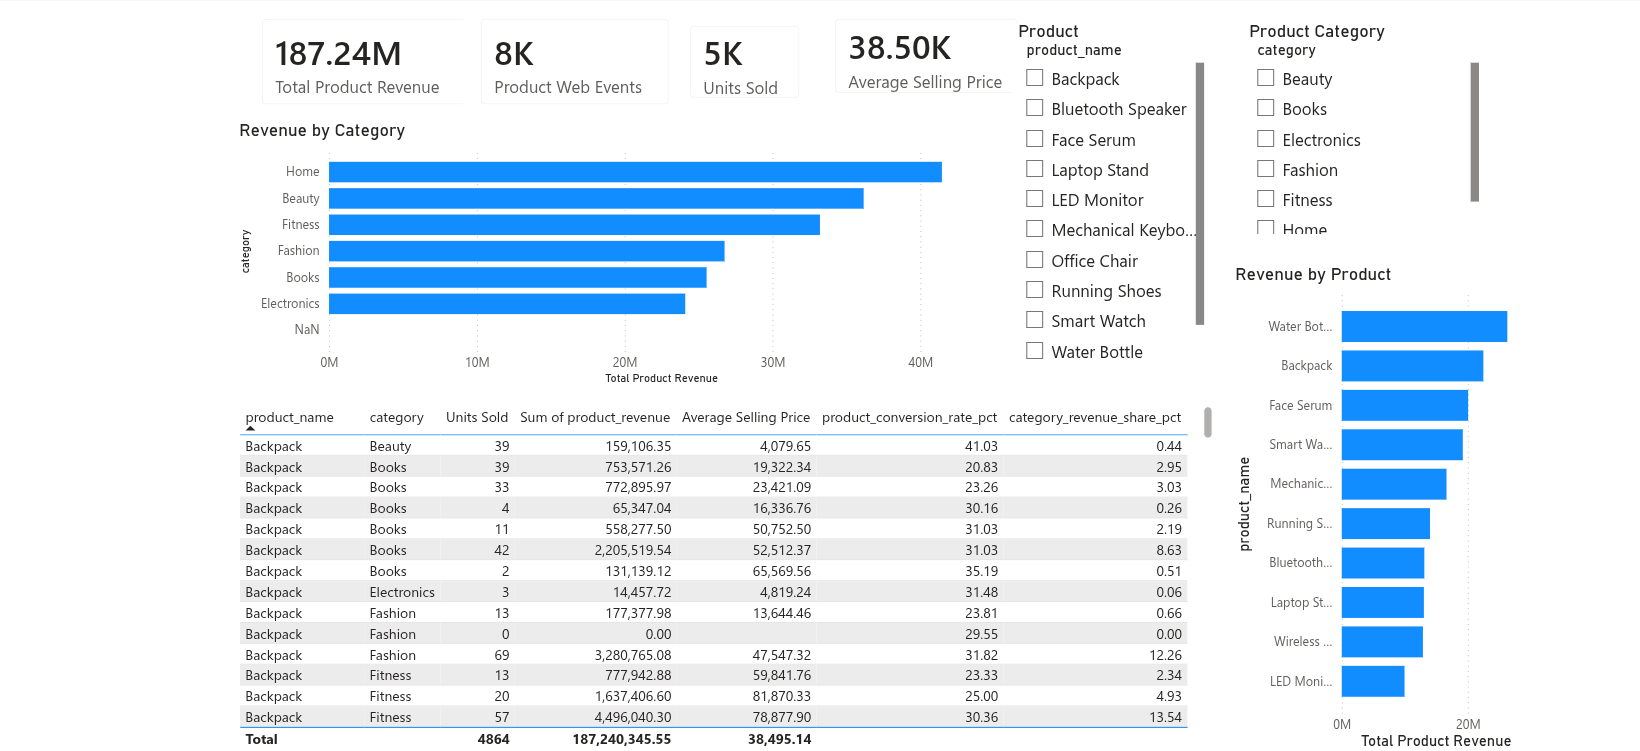
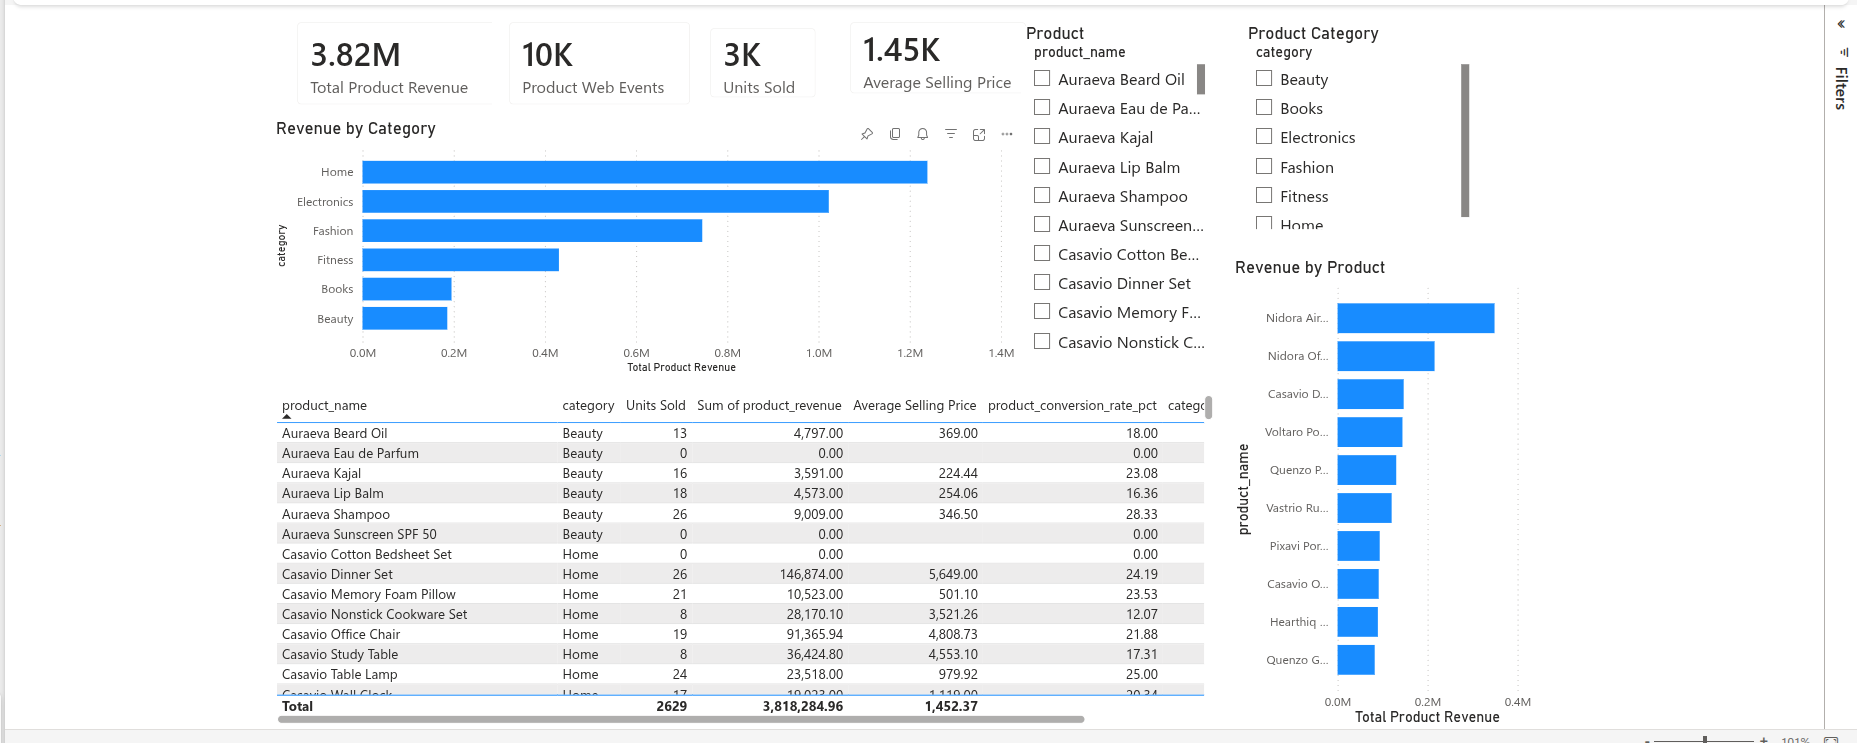
Refresh screenshots, add the Airflow run, and correct the README
The Power BI screenshots are retaken from the final data and dashboard; the executive overview's ROAS card is now titled as an average per campaign, and its card that double-counted customers across campaigns is removed. A screenshot of two successful runs of the 20-task DAG is added. The README is checked against the code: the SCD2 validation command is replaced with one that works outside a build, the reconciliation count is 29, the dbt marts folder lists its snapshot models, the dashboard column contract is documented, duplicated Airflow and dbt blocks are removed, and the screenshot note reflects the current data.

diff --git a/README.md b/README.md
@@ -25,7 +25,7 @@ This project demonstrates practical Data Engineering and Analytics Engineering c
 | Lakehouse processing | Raw, Bronze, Silver, and Gold Medallion layers using PySpark and Parquet |
 | Data quality | Row-count checks, metadata checks, null checks, metric checks, quarantine handling, row conservation, and reconciliation |
 | Warehouse modeling | PostgreSQL staging, warehouse, marts, and audit schemas |
-| Historical correctness | SCD Type 2 customer/product/campaign dimensions and point-in-time fact joins |
+| Historical correctness | Customer/product/campaign dimensions with SCD Type 0, 1 and 2 attributes, and point-in-time fact joins |
 | Reproducibility | Deterministic, incremental batches; reruns of a batch leave the lake and the warehouse unchanged |
 | BI readiness | Revenue, campaign, product, customer, and funnel marts built for reporting |
 | Analytics engineering | 24 dbt models and 82 dbt tests, docs, lineage, and exposures |
@@ -142,6 +142,7 @@ flowchart TD
 | Airflow | `airflow/dags/` | Orchestrates lakehouse, warehouse, dbt, and export tasks |
 | Power BI exports | `exports/power_bi/` (route A), `data/bi_exports/` (route B) | CSV datasets consumed by Power BI Online |
 | Power BI screenshots | `screenshots/power_bi/`, `docs/screenshots/power_bi/` | Provides dashboard proof assets |
+| Airflow screenshot | `docs/screenshots/airflow/` | Shows two successful scheduler runs of the 20-task DAG |
 | Terraform | `terraform/aws-bi-exports/` | Manages the S3 layer that serves the route B CSVs |
 | CI/CD | `.github/workflows/ci.yml` | Validates the merged analytics platform before merge |
 
@@ -180,11 +181,11 @@ Exact Python pins are in `requirements.txt` (runtime) and `requirements-dev.txt`
 | DuckDB | SQL analytics straight on the Gold Parquet files, and the route B export query engine | `sql/duckdb_gold_analytics.py`, `sql/run_scd2_duckdb_analytics.py`, `sql/export_power_bi_dataset.py` (DAG tasks `duckdb_gold_analytics`, `scd2_duckdb_analytics`, `power_bi_export`) | CI `integration` runs the three tasks; the tests also read the lake with DuckDB |
 | PostgreSQL | Staging, star-schema warehouse, marts, audit; each build is published atomically | `sql/warehouse/*.sql`, `scripts/run_warehouse_sql.sh` (DAG task `build_warehouse`) | CI `unit` (database tests in both time zones) and CI `integration` (29 reconciliation and 20 mart checks must pass; a reader loop sees no error during rebuilds) |
 | dbt | Models over the warehouse and marts, 82 tests (the SCD type tests included), docs, exposures | `dbt/` (DAG tasks `dbt_run`, `dbt_test`, `dbt_docs`) | CI `integration`: `dbt run` PASS=25, `dbt test` PASS=83 |
-| Airflow | The DAG: task order, one run at a time, `BATCH_DATE` from the logical date | `airflow/dags/batch_lakehouse_pipeline.py` | The DAG's tasks run in CI, but not under Airflow: `static` checks the DAG file, `unit` renders its `BATCH_DATE` template with Jinja2, and `integration` executes the DAG's own task commands through `tests/integration/run_dag.py` with Airflow stubbed. A real scheduler run is manual and local, recorded in `docs/warehouse/airflow_working_state.md` |
-| Docker | Runs PostgreSQL 16.14 (`project2_postgres` locally, throwaway containers in tests). The pipeline itself is not containerized: there is no Dockerfile | `scripts/run_warehouse_sql.sh` (`docker exec`), `tests/integration/run_local.sh` | CI `unit` and `integration` start PostgreSQL with `docker run` |
+| Airflow | The DAG: task order, one run at a time, `BATCH_DATE` from the logical date | `airflow/dags/batch_lakehouse_pipeline.py` | The DAG's tasks run in CI, but not under Airflow: `static` checks the DAG file, `unit` renders its `BATCH_DATE` template with Jinja2, and `integration` executes the DAG's own task commands through `tests/integration/run_dag.py` with Airflow stubbed. A real scheduler run is manual and local, recorded in `docs/warehouse/airflow_working_state.md`; a successful run of the 20-task DAG is shown in `docs/screenshots/airflow/01_dag_run_success.png` |
+| Docker | Runs PostgreSQL 16.14 (`project2_postgres` locally, throwaway containers in tests). The pipeline itself is not containerized: there is no Dockerfile | `scripts/run_warehouse_sql.sh` (`docker exec`), `tests/integration/run_local.sh` | CI `unit` runs PostgreSQL as a service container; CI `integration` starts one with `docker run` |
 | pytest | Unit tests in two time zones with the database tests required; integration assertions on the finished pipeline | `tests/unit/`, `tests/integration/` | CI `unit` and `integration`; locally `venv/bin/python -m pytest tests/unit` and `bash tests/integration/run_local.sh` |
 | GitHub Actions | The quality gate on every push and pull request | `.github/workflows/ci.yml` | The workflow runs themselves (five jobs) |
-| Power BI | The dashboard, built by hand in Power BI Online from the exported CSVs | `exports/power_bi/`, `data/bi_exports/`, `docs/warehouse/power_bi_*.md`, screenshots in `docs/screenshots/power_bi/` | Not run by the DAG or CI. CI `powerbi-assets` validates the CSVs, manifest and docs; CI `integration` produces the route B CSVs. The dashboard itself is shown by screenshots only |
+| Power BI | The dashboard, built by hand in Power BI Online from the exported CSVs | `exports/power_bi/`, `data/bi_exports/`, `docs/warehouse/power_bi_*.md`, screenshots in `docs/screenshots/power_bi/` | Not run by the DAG or CI. CI `powerbi-assets` validates the CSVs, their column order, the manifest and the docs; CI `integration` produces the route B CSVs. The dashboard itself is shown by screenshots only |
 | AWS S3 | Hosts five route B CSVs that Power BI Online reads over HTTPS | `terraform/aws-bi-exports/` | Not touched by the DAG or CI (no AWS credentials there). Upload is a manual `terraform apply`; the evidence is the bucket and the dashboard |
 | Terraform | Declares the S3 bucket, its policy and the five objects | `terraform/aws-bi-exports/*.tf` | CI `terraform`: `fmt -check`, `init -backend=false`, `validate`. `plan` and `apply` are manual and never run in CI |
 
@@ -205,10 +206,12 @@ Generated raw files:
 | `campaigns.csv` | Marketing campaign master data |
 | `orders.csv` | Order-level transaction data |
 | `order_items.csv` | Product-level order line items |
-| `ad_spend.csv` | Campaign spend, impressions, and clicks |
+| `ad_spend.csv` | The ad platform's feed per campaign, day and region: spend, impressions, clicks, conversions, and attributed revenue |
 | `web_events.json` | User behavior and engagement events |
 
 The behavioral event source includes customer, product, session, recommendation, campaign attribution, device/browser, engagement, fraud, schema version, and timestamp fields.
+
+Each batch folder also holds `generation_truth.json`: the generator version, the data contract, the hidden simulation labels and the row index of every deliberately dirty row. It is not a source file and no pipeline task reads it as data.
 
 ---
 
@@ -302,7 +305,7 @@ The `_scd2` facts join each row to the dimension version that was valid at the e
 
 **Marts tie out.** Every mart has one row for the unknown member and one for the invalid-reference member, flagged in `member_type` (`known`, `unknown_member`, `invalid_reference`); filter `member_type = 'known'` for real customers, products or campaigns only. With those rows each mart's revenue (sales less refunds), refunds, spend and units equal the fact totals, and the mart validation checks exactly that.
 
-**Consumer contract.** `tests/integration/test_warehouse.py` records every relation and column that Project 4 and Project 5 read (name, type, grain, key) and the integration run asserts it: adding a column is free; removing, renaming or retyping a recorded one, emptying the relation or breaking its key fails the run.
+**Consumer contract.** `tests/integration/test_warehouse.py` records every relation and column that Project 4 and Project 5 read (name, type, grain, key) and the integration run asserts it: adding a column is free; removing, renaming or retyping a recorded one, emptying the relation or breaking its key fails the run. The Power BI dashboards are protected the same way, by column position (section 12).
 
 ---
 
@@ -324,7 +327,7 @@ Warehouse capabilities:
 - Customer, product, and campaign dimensions with SCD Type 0, Type 1 and Type 2 attributes (table below).
 - Surrogate keys for historical dimension versions. Dimension keys are deterministic: a rebuild from the same data gives the same keys in any load order.
 - Point-in-time fact joins that only accept a version whose validity range covers the event.
-- Unknown-member handling where needed.
+- An unknown member (key 0) for a missing reference and an invalid-reference member (key -1) for a reference with no valid dimension row, so no fact is dropped for a bad reference.
 - BI-ready marts for revenue, campaign, product, customer, and funnel reporting.
 - Reconciliation checks stored under the audit layer.
 - Query performance tuning through indexes and `EXPLAIN ANALYZE` documentation.
@@ -402,7 +405,7 @@ Main dbt areas:
 ```text
 dbt/models/staging/      7 models
 dbt/models/warehouse/    8 models
-dbt/models/marts/        5 models
+dbt/models/marts/        8 models (5 marts, 3 daily snapshots)
 dbt/models/audit/        1 model
 dbt/models/exposures.yml
 dbt/models/schema.yml
@@ -461,12 +464,10 @@ The DAG has no schedule and allows one active run. Its tasks use `venv/bin/pytho
 
 **An empty first batch.** When the very first batch is declared empty and its raw files have no rows, Bronze ingests and checks them, and every later task succeeds without running and prints `NOTHING TO PROCESS`: no lake table and no warehouse is created, and the first batch with rows builds everything. An empty batch after an earlier one is processed normally.
 
-**Trigger from the UI.** Set the logical date to the day to process or rerun, at 12:00 on that day, or leave it at now to process today. The CLI's `-l` works the same way. Section 15 also has a scripted REST trigger with a render gate that shows the date before any task runs.
-
-The full setup, verified with a 23-of-23 successful run, is in:
+How to trigger a run (UI, CLI, or a scripted REST call with a render gate that shows the date before any task runs) is in section 15. The full setup and troubleshooting are in `docs/warehouse/airflow_working_state.md`. Two successful scheduler runs of the 20-task DAG (13 and 14 November 2026, no failed task) are shown in:
 
 ```text
-docs/warehouse/airflow_working_state.md
+docs/screenshots/airflow/01_dag_run_success.png
 ```
 
 ---
@@ -506,6 +507,8 @@ exports/power_bi/export_manifest.json
 - the bucket policy grants public `s3:GetObject` on exactly those five objects, with no listing and no write;
 - the module uploads the five files from `data/bi_exports/`.
 
+**The column order is a contract.** Power BI reads these CSVs by column position. `scripts/power_bi_dashboard_contract.json` records the columns each file of both routes was published with, in order. Both export scripts write those columns first, in that order, and append every newer column after them; `scripts/validate_powerbi_assets.py` (CI job `powerbi-assets`) and the tests fail when a published column is moved, renamed or dropped.
+
 `terraform output power_bi_csv_urls` prints the HTTPS URLs that Power BI uses. `data_quality_summary.csv` is built only from verified checks: warehouse reconciliation, SCD2 validation, Silver quarantine, point-in-time conservation, and the number of facts kept on the invalid-reference member per fact and dimension. See `docs/power_bi_dashboard_spec.md` and `docs/terraform_aws_bi_exports.md`.
 
 Power BI docs:
@@ -539,7 +542,7 @@ GitHub Actions (`.github/workflows/ci.yml`) runs on pushes and pull requests to 
 | Static checks | required files; no committed local paths, private keys, AWS keys, or dbt credentials; Python compile; shell syntax; warehouse SQL assets; Airflow DAG source; ruff; dbt project structure and `dbt parse` |
 | Unit tests | `pytest tests/unit` on Python 3.14 with Java 17, run twice: once with `TZ=UTC` and once with `TZ=Asia/Kolkata`. The job starts a PostgreSQL 16.14 service container on port 5546 for the tests that build a warehouse, and sets `P2_REQUIRE_DB=1`, so those tests fail instead of being skipped if the database is missing |
 | Integration | the whole pipeline end to end against PostgreSQL 16.14; see below |
-| Power BI artifact validation | `scripts/validate_powerbi_assets.py`: exports, manifest, docs, screenshots |
+| Power BI artifact validation | `scripts/validate_powerbi_assets.py`: exports, their published column order, manifest, docs, screenshots |
 | Terraform validation | Terraform 1.17.1: `fmt -check`, `init -backend=false`, `validate`, and no tracked state or tfvars |
 
 The integration job (`tests/integration/run_integration.sh`):
@@ -596,7 +599,13 @@ docs/screenshots/power_bi/02_campaign_performance.png
 docs/screenshots/power_bi/03_data_quality_reconciliation.png
 ```
 
-The screenshots were taken before the latest data fixes, so their numbers differ from the current exports (see Known Limitations).
+The dashboard screenshots were taken on 14 November 2026 from the current data; for example the executive overview's totals (revenue INR 3,984,959.66, spend INR 1,434,179.14) are those of `data/bi_exports/campaign_performance.csv`.
+
+Airflow screenshot:
+
+```text
+docs/screenshots/airflow/01_dag_run_success.png
+```
 
 Export proof:
 
@@ -641,16 +650,10 @@ curl -LsSf https://astral.sh/uv/install.sh | env UV_NO_MODIFY_PATH=1 sh
 ~/.local/bin/uv venv --python 3.13 --seed venv-dbt
 venv-dbt/bin/python -m pip install -r requirements-dev.txt
 venv-dbt/bin/dbt --version          # dbt-core 1.10.15, dbt-postgres 1.10.0
-
 cp dbt/profiles.yml.example dbt/profiles.yml
-cd dbt
-../venv-dbt/bin/dbt debug --profiles-dir .
-../venv-dbt/bin/dbt parse --profiles-dir . --no-partial-parse
-../venv-dbt/bin/dbt run --profiles-dir .
-../venv-dbt/bin/dbt test --profiles-dir .
-../venv-dbt/bin/dbt docs generate --profiles-dir .
-cd ..
 ```
+
+The dbt commands are in section 10.
 
 ### `venv-airflow`: Airflow 3.2.0 (Python 3.14)
 
@@ -894,11 +897,21 @@ ORDER BY viewname;
 "
 ```
 
-### SCD2 validation
+### SCD2 and mart validation
+
+Both run inside every warehouse build (the build fails if one fails); `scd2_validation_queries.sql` refuses to run on its own. Read the results of the latest build:
 
 ```bash
-bash scripts/run_warehouse_sql.sh sql/warehouse/scd2_validation_queries.sql
+docker exec project2_postgres psql -U project2 -d marketing_analytics -c "
+SELECT 'scd2' AS checks, status, COUNT(*) FROM audit.scd2_validation_results
+WHERE validation_run_id = (SELECT validation_run_id FROM audit.scd2_validation_results ORDER BY checked_at DESC LIMIT 1)
+GROUP BY status
+UNION ALL
+SELECT 'marts', status, COUNT(*) FROM audit.mart_validation_report GROUP BY status;
+"
 ```
+
+Expected: `scd2 | PASS | 9` and `marts | PASS | 20`.
 
 ### Data quality summary
 
@@ -921,7 +934,6 @@ Deliberate trade-offs for a portfolio project built on synthetic data:
 
 - **Public dashboard files.** Power BI Online reads five synthetic CSVs from S3 through public, read-only object URLs (no listing, no write access). The bucket policy does not enforce TLS, which is acceptable for synthetic data; a production setup would serve the files privately, for example through CloudFront with origin access control.
 - **Reproducibility scope.** Direct dependencies are pinned; transitive dependencies of the dev tools are not.
-- **Screenshots** show the dashboard layout; the current figures are in `exports/power_bi/`.
 
 **Known characteristics of the synthetic data.** The source is made coherent enough that nothing contradicts itself, not realistic. Left as they are, on purpose: the funnel converts far more often than a real shop (event types are drawn almost evenly, so about one event in six is a purchase); most orders are a single line; loyalty points do not grow with orders and stock does not fall with sales; the model-score fields (engagement, purchase and abandonment probability, fraud score) and the recommendation fields are random and unrelated to what the visitor did, which also keeps them from leaking outcomes; an IP address is not tied to the visit's city and names are not regional; every web event carries a product, page views and searches included; prime members pay shipping like everyone else, and the free-shipping value is high for the typical order; there is no price or campaign history before the first batch; the ad platform's conversions are independent of the shop's orders; and the channel names (`google`, `facebook`, `instagram`) are the real platforms, while product brands are invented.
 

diff --git a/docs/warehouse/airflow_working_state.md b/docs/warehouse/airflow_working_state.md
@@ -9,7 +9,7 @@ Verified on 2026-11-10 with run `manual__rerun2_2026-06-18` (BATCH_DATE 2026-06-
 - warehouse reconciliation was 14 of 14 PASS;
 - `power_bi_export` succeeded, with every `data_quality_summary.csv` row PASS.
 
-Those are the numbers of that run. The project now has 24 dbt models and 82 dbt tests; dbt reports `PASS=25` for `dbt run` and `PASS=83` for `dbt test`, because it also counts the `on-run-end` hook that grants `p2_reader` USAGE on the dbt schemas. Reconciliation now has 27 checks, and the DAG has 20 tasks (section below).
+Those are the numbers of that run. The project now has 24 dbt models and 82 dbt tests; dbt reports `PASS=25` for `dbt run` and `PASS=83` for `dbt test`, because it also counts the `on-run-end` hook that grants `p2_reader` USAGE on the dbt schemas. Reconciliation now has 29 checks, and the DAG has 20 tasks (section below). Two later scheduler runs of the 20-task DAG, on 13 and 14 November 2026, succeeded with no failed task; see `docs/screenshots/airflow/01_dag_run_success.png`.
 
 ---
 
